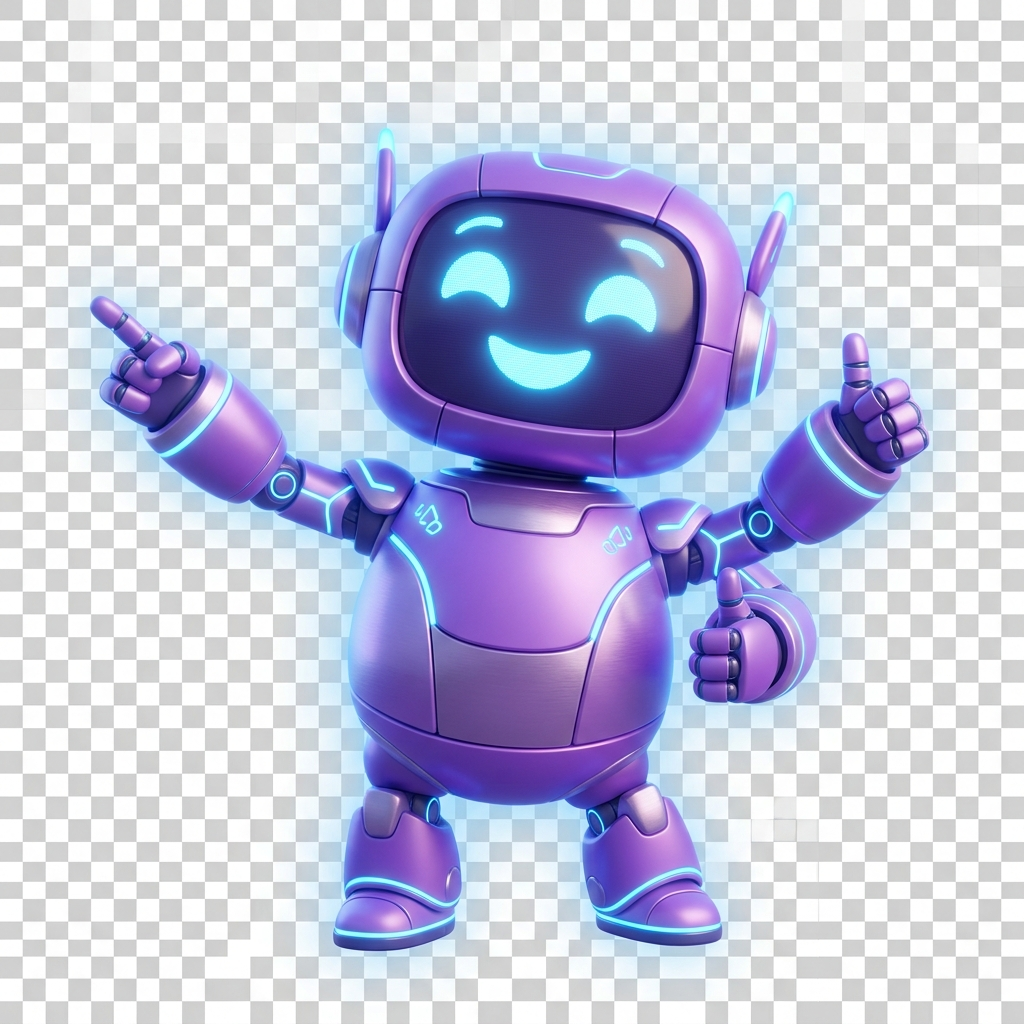
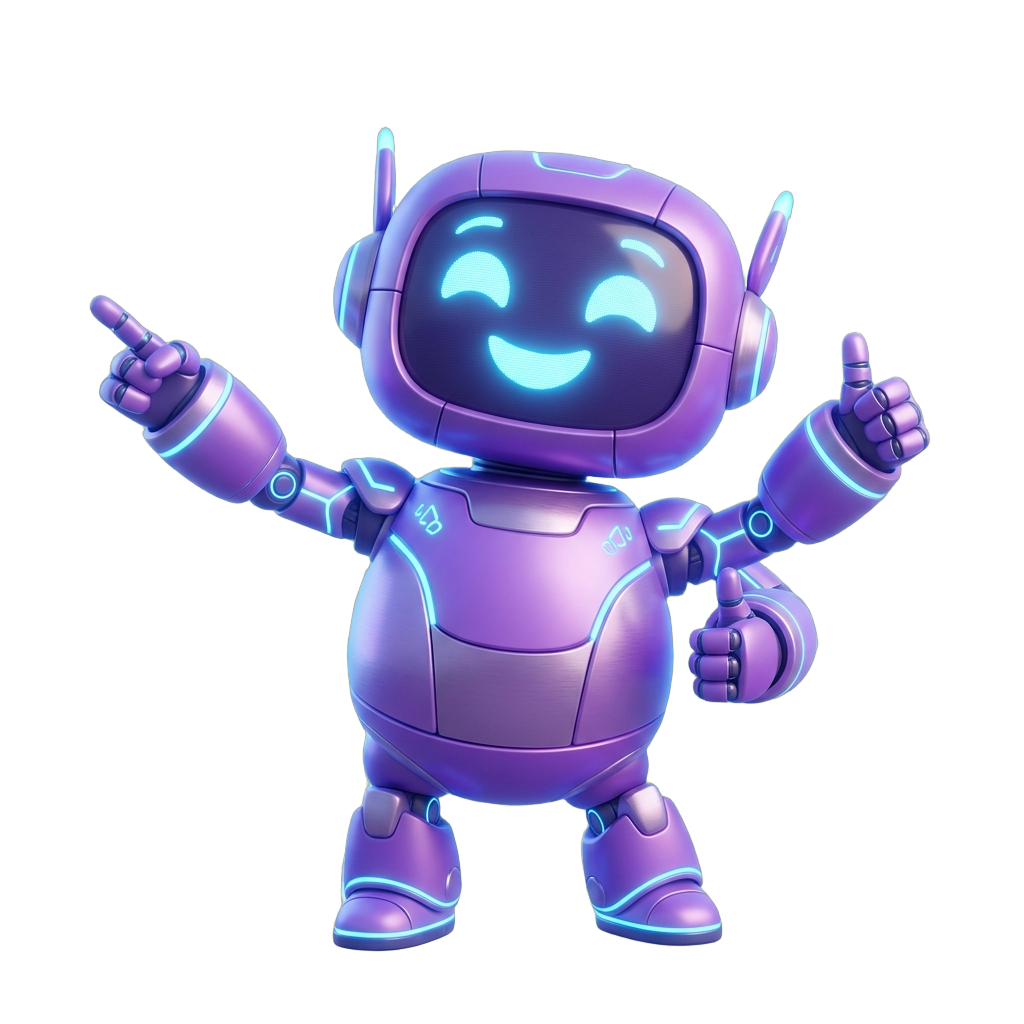
fix(live-tracking): remove fake checkerboard background with true PNG transparency, fix dynamic train radar refresh, gate zero seat alerts to booked journeys, and verify citizen booking database matching

diff --git a/frontend/src/pages/JourneyTrackerPage.tsx b/frontend/src/pages/JourneyTrackerPage.tsx
@@ -30,7 +30,7 @@ import {
 import { useJourney } from '../context/JourneyContext';
 import { speakNiraResponse } from '../services/voiceService';
 import { MOCK_TRAINS_DATABASE } from '../data/mockTrains';
-import { getTrainStoppages, StationStop } from '../data/trainStoppages';
+import { getTrainStoppages, resolveTrainDetail, StationStop } from '../data/trainStoppages';
 import {
   liveSeatInventory,
   stationLoadProjection,
@@ -74,8 +74,19 @@ const KNOWN_TRAIN_NAMES: Record<string, string> = {
 };
 
 export const JourneyTrackerPage: React.FC = () => {
-  const { searchParams, selectedTrain, selectedClassCode, trackQuery, setTrackQuery, navigateTo, addNotification } = useJourney();
-  const initialTrainNumber = trackQuery || selectedTrain?.trainNumber || '12302';
+  const {
+    searchParams,
+    selectedTrain,
+    selectedClassCode,
+    issuedTicket,
+    bookingRecord,
+    passengers,
+    trackQuery,
+    setTrackQuery,
+    navigateTo,
+    addNotification,
+  } = useJourney();
+  const initialTrainNumber = trackQuery || selectedTrain?.trainNumber || issuedTicket?.train?.trainNumber || '12302';
 
   // ─── STATE HOOKS (Declared at Top) ───
   const [searchInput, setSearchInput] = useState(initialTrainNumber);
@@ -126,6 +137,10 @@ export const JourneyTrackerPage: React.FC = () => {
       const nextTrainNumber = trackQuery.trim();
       setSearchInput(nextTrainNumber);
       setActiveTrainNumber(nextTrainNumber);
+      setActiveStationIndex(1);
+      setCountdownSeconds(180);
+      setHaltSeconds(20);
+      setPhase('TRAVELING');
     }
   }, [trackQuery]);
 
@@ -136,7 +151,7 @@ export const JourneyTrackerPage: React.FC = () => {
 
   // ─── DYNAMIC TRAIN IDENTITY & ROUTE RESOLUTION ───
   const trainNumber = activeTrainNumber.trim() || '12302';
-  const foundTrain = MOCK_TRAINS_DATABASE.find((t) => t.trainNumber === trainNumber);
+  const foundTrain = useMemo(() => resolveTrainDetail(trainNumber), [trainNumber]);
   const routeStations: StationStop[] = useMemo(() => {
     return getTrainStoppages(trainNumber, foundTrain);
   }, [trainNumber, foundTrain]);
@@ -183,10 +198,19 @@ export const JourneyTrackerPage: React.FC = () => {
     return liveSeatInventory(trainNumber, selectedCoachInfo.classCode, 0, inventoryClock);
   }, [trainNumber, selectedCoachInfo.classCode, inventoryClock]);
 
+  // Check if current tracked train is really booked by this citizen
+  const isUserBookedTrain = useMemo(() => {
+    return Boolean(
+      (issuedTicket && issuedTicket.train?.trainNumber === trainNumber) ||
+      (bookingRecord && bookingRecord.trainNumber === trainNumber) ||
+      (selectedTrain && selectedTrain.trainNumber === trainNumber)
+    );
+  }, [issuedTicket, bookingRecord, selectedTrain, trainNumber]);
+
   // Determine if this selected coach is the user's booked coach/class
   const userBookedClass = selectedClassCode || selectedTrain?.classes?.[0]?.classCode || '3A';
-  const isUserClass = selectedCoachInfo.classCode === userBookedClass;
-  const isUserCoach = selectedCoach === 'B4' || (isUserClass && selectedCoach === (trainCoaches.find((c) => c.classCode === userBookedClass)?.code || 'B4'));
+  const isUserClass = isUserBookedTrain && selectedCoachInfo.classCode === userBookedClass;
+  const isUserCoach = Boolean(isUserBookedTrain && (selectedCoach === 'B4' || (isUserClass && selectedCoach === (trainCoaches.find((c) => c.classCode === userBookedClass)?.code || 'B4'))));
 
   const coachBerthLayout = useMemo(() => {
     return getCoachBerthLayout(
@@ -198,7 +222,7 @@ export const JourneyTrackerPage: React.FC = () => {
     );
   }, [selectedCoachInfo.code, selectedCoachInfo.classCode, coachInventory.racCount, isUserCoach]);
 
-  const seatClass = foundTrain?.classes?.find((c) => c.classCode === selectedCoachInfo.classCode) || foundTrain?.classes?.[0];
+  const seatClass = foundTrain?.classes?.find((c: any) => c.classCode === selectedCoachInfo.classCode) || foundTrain?.classes?.[0];
   const seatInventory = coachInventory;
   const noSeatSegments = useMemo(() => getNoSeatSegments(trainNumber, routeStations), [trainNumber, routeStations]);
   const primaryNoSeat = noSeatSegments[0];
@@ -207,6 +231,20 @@ export const JourneyTrackerPage: React.FC = () => {
     return getWaitlistWatchProjection(trainNumber, selectedCoachInfo.classCode, coachInventory.waitlist, comfortLevel);
   }, [trainNumber, selectedCoachInfo.classCode, coachInventory.waitlist, comfortLevel]);
 
+  // Real booked passengers from Citizen profile / ticket database
+  const userPassengers = useMemo(() => {
+    if (issuedTicket?.passengers && issuedTicket.passengers.length > 0) {
+      return issuedTicket.passengers;
+    }
+    if (passengers && passengers.length > 0) {
+      return passengers;
+    }
+    return [
+      { id: 'p1', name: 'Anusuya Nita', age: 44, gender: 'F' as const, berthPreference: 'SIDE_LOWER' as const },
+      { id: 'p2', name: 'Moupiya Sharma', age: 45, gender: 'F' as const, berthPreference: 'UPPER' as const },
+    ];
+  }, [issuedTicket, passengers]);
+
   // Dynamic Passenger List for Waitlist Watch Sidebar
   const passengerEntries: PassengerExplainEntry[] = useMemo(() => {
     const p1Wl = coachInventory.waitlist;
@@ -214,27 +252,16 @@ export const JourneyTrackerPage: React.FC = () => {
     const p1Prob = wlWatch.confirmationProbability;
     const p1Moved = coachInventory.positionsCleared;
 
-    return [
-      {
-        name: 'Anusuya Nita',
-        displayName: 'Passenger 1',
-        quotaType: 'GNWL',
-        initialWl: p1Init,
-        currentWl: p1Wl,
-        probability: p1Prob,
-        positionsCleared: p1Moved,
-      },
-      {
-        name: 'Rohan Sharma',
-        displayName: 'Passenger 2',
-        quotaType: 'GNWL',
-        initialWl: p1Init + 2,
-        currentWl: Math.max(1, p1Wl + 2),
-        probability: Math.max(10, p1Prob - 4),
-        positionsCleared: p1Moved,
-      },
-    ];
-  }, [coachInventory, wlWatch.confirmationProbability]);
+    return userPassengers.map((p: any, idx: number) => ({
+      name: p.name || `Passenger ${idx + 1}`,
+      displayName: `Passenger ${idx + 1}`,
+      quotaType: 'GNWL',
+      initialWl: p1Init + idx * 2,
+      currentWl: Math.max(1, p1Wl + idx * 2),
+      probability: Math.max(10, p1Prob - idx * 4),
+      positionsCleared: p1Moved,
+    }));
+  }, [userPassengers, coachInventory, wlWatch.confirmationProbability]);
 
   const ticketExplanation = useMemo(() => {
     return explainMyTicket(passengerEntries, 4, privacyMode);
@@ -772,9 +799,9 @@ export const JourneyTrackerPage: React.FC = () => {
       </div>
 
       {/* ═══════════════════════════════════════════════════════════════════
-          3. ZERO-SEAT PLATFORM WARNING BANNER (When No Seat Available)
+          3. ZERO-SEAT PLATFORM WARNING BANNER (Only when User Has Booked This Train / Active Waitlist)
           ═══════════════════════════════════════════════════════════════════ */}
-      {(seatInventory.status !== 'AVAILABLE' || primaryNoSeat) && (
+      {isUserBookedTrain && (seatInventory.status !== 'AVAILABLE' || primaryNoSeat) && (
         <div className="rounded-2xl border border-rose-300 bg-rose-50/95 p-3.5 text-rose-950 shadow-xs flex flex-col sm:flex-row sm:items-center justify-between gap-3 animate-in fade-in">
           <div className="flex items-center gap-3">
             <div className="w-10 h-10 rounded-2xl bg-rose-600 text-white flex items-center justify-center shrink-0 shadow-sm">

diff --git a/frontend/src/components/NiraChatDrawer.tsx b/frontend/src/components/NiraChatDrawer.tsx
@@ -859,9 +859,25 @@ export const NiraChatDrawer: React.FC<NiraChatDrawerProps> = ({ isOpen, onClose 
       const activeTicket = issuedTicket;
       const activeRecord = bookingRecord;
       const activeTrain = selectedTrain;
-      const hasAnyBooking = !!(activeTicket || activeRecord || (activeTrain && (bookingState === 'CONFIRMED' || bookingState === 'TICKET_VIEW')));
+      const userBookedTrainNo = activeTicket?.train?.trainNumber || activeRecord?.trainNumber || (activeTrain?.trainNumber && (bookingState === 'CONFIRMED' || bookingState === 'TICKET_VIEW') ? activeTrain.trainNumber : null);
 
-      const trainNo = activeTicket?.train?.trainNumber || activeRecord?.trainNumber || activeTrain?.trainNumber || '12302';
+      // Check if user specifically requested a different unbooked train number
+      if (intentData.trainNumber && userBookedTrainNo && intentData.trainNumber !== userBookedTrainNo) {
+        const unbookedTrain = resolveTrainDetail(intentData.trainNumber);
+        const bookedName = activeTicket?.train?.trainName || activeRecord?.trainName || activeTrain?.trainName || 'Express';
+        const pnrNumber = activeTicket?.pnrNumber || activeRecord?.pnrNumber || '8429 1048 21';
+        const notBookedMsg = `ℹ **Citizen Profile Booking Match Check**:\n\n❌ Train **#${intentData.trainNumber} (${unbookedTrain.trainName})** is **not** in your active booked bookings database.\n\n🎫 Your active booked journey is for train **#${userBookedTrainNo} (${bookedName})** (PNR: \`${pnrNumber}\`).\n\nI have opened **Live GPS Satellite Radar** for train **#${intentData.trainNumber}** on your screen!`;
+        
+        handleQuickTrack(intentData.trainNumber);
+        setIsLoading(false);
+        setMessages((prev) =>
+          prev.map((m) => (m.id === botMsgId ? { ...m, text: notBookedMsg, isStreaming: false } : m))
+        );
+        if (autoVoice) speakNiraResponse(`Train ${intentData.trainNumber} is not your booked train. Your booked train is ${userBookedTrainNo}.`);
+        return;
+      }
+
+      const trainNo = userBookedTrainNo || '12302';
       const matchedTrain = resolveTrainDetail(trainNo);
       const trainName = activeTicket?.train?.trainName || activeRecord?.trainName || activeTrain?.trainName || matchedTrain.trainName;
       const pnrNumber = activeTicket?.pnrNumber || activeRecord?.pnrNumber || '8429 1048 21';
@@ -918,6 +934,7 @@ export const NiraChatDrawer: React.FC<NiraChatDrawerProps> = ({ isOpen, onClose 
 
       const statusMsg = `🎫 **Booked Train Status & Live Radar Telemetry**:\n\n🚆 **Train**: **#${trainNo} ${trainName}**\n📍 **Route**: **${fromCity} (${fromCode})** ➔ **${toCity} (${toCode})**\n📅 **Travel Date**: ${travelDate} | Departure: ${matchedTrain.departureTime} hrs\n🔢 **PNR Number**: \`${pnrNumber}\`\n\n---\n### 📋 Booking & Confirmation Status:\n${statusType === 'CONFIRMED' ? `✅ **Status**: **CONFIRMED** (${seatInfo})` : statusType === 'RAC' ? `🟡 **Status**: **RAC** (${seatInfo}) — **${probLabel}** at Chart Preparation (4h prior).` : `🟠 **Status**: **WAITLISTED** (${seatInfo}) — **${probLabel}**.`}\n\n---\n### 🛰 Live Train Running Status:\n⚡ **Speed**: **118 km/h** | ⏱ **Punctuality**: Running **Right on Time**\n🚉 **Next Stoppage**: **${nextStop.name} (${nextStop.code})** on **${nextStop.platform}**\n🚪 **Deboarding Doors**: **${nextStop.doorSide}**\n\nTap **'🛰 Track Live on Radar'** below to open the real-time satellite GPS tracking map!`;
 
+      handleQuickTrack(trainNo);
       setIsLoading(false);
       setMessages((prev) =>
         prev.map((m) =>
@@ -1003,6 +1020,9 @@ export const NiraChatDrawer: React.FC<NiraChatDrawerProps> = ({ isOpen, onClose 
         pushTask('BOOKING', 'Resume Booking', `${searchParams.fromStation?.city} → ${searchParams.toStation?.city}`);
       }
 
+      const userBookedTrainNo = issuedTicket?.train?.trainNumber || bookingRecord?.trainNumber;
+      const isBookedByCitizen = userBookedTrainNo === trainNo;
+
       const matchedTrain = resolveTrainDetail(trainNo);
       const stops = getTrainStoppages(trainNo, matchedTrain);
       const nextStop = stops[1] || stops[0] || { name: 'Prayagraj Junction', code: 'PRYJ', platform: 'Platform 4', doorSide: 'RIGHT SIDE' };
@@ -1018,7 +1038,11 @@ export const NiraChatDrawer: React.FC<NiraChatDrawerProps> = ({ isOpen, onClose 
         delayMins: 0,
       };
 
-      const trackReply = `🚆 **Live GPS Satellite Radar for #${trainNo} (${matchedTrain.trainName})**:\n\n• **Current Speed**: **118 km/h** • Running **Right on Time**.\n• **Approaching**: **${nextStop.name} (${nextStop.code})** on **${nextStop.platform}** (Doors open on **${nextStop.doorSide}**).\n• **Total Route Halts**: ${stops.length} stations.\n\nI have redirected your main screen to the **Live Radar Map**!`;
+      const bookingMatchNotice = isBookedByCitizen
+        ? `\n\n🎫 **Citizen Booking Linked**: Matched with your booked journey (PNR \`${issuedTicket?.pnrNumber || bookingRecord?.pnrNumber}\`)!`
+        : (userBookedTrainNo ? `\n\nℹ **Notice**: Train **#${trainNo}** is not your currently booked journey (Your active booking is **#${userBookedTrainNo}**). Showing general GPS corridor telemetry.` : '');
+
+      const trackReply = `🚆 **Live GPS Satellite Radar for #${trainNo} (${matchedTrain.trainName})**:\n\n• **Current Speed**: **118 km/h** • Running **Right on Time**.\n• **Approaching**: **${nextStop.name} (${nextStop.code})** on **${nextStop.platform}** (Doors open on **${nextStop.doorSide}**).\n• **Total Route Halts**: ${stops.length} stations.${bookingMatchNotice}\n\nI have redirected your main screen to the **Live Radar Map**!`;
 
       setIsLoading(false);
       setMessages((prev) =>
